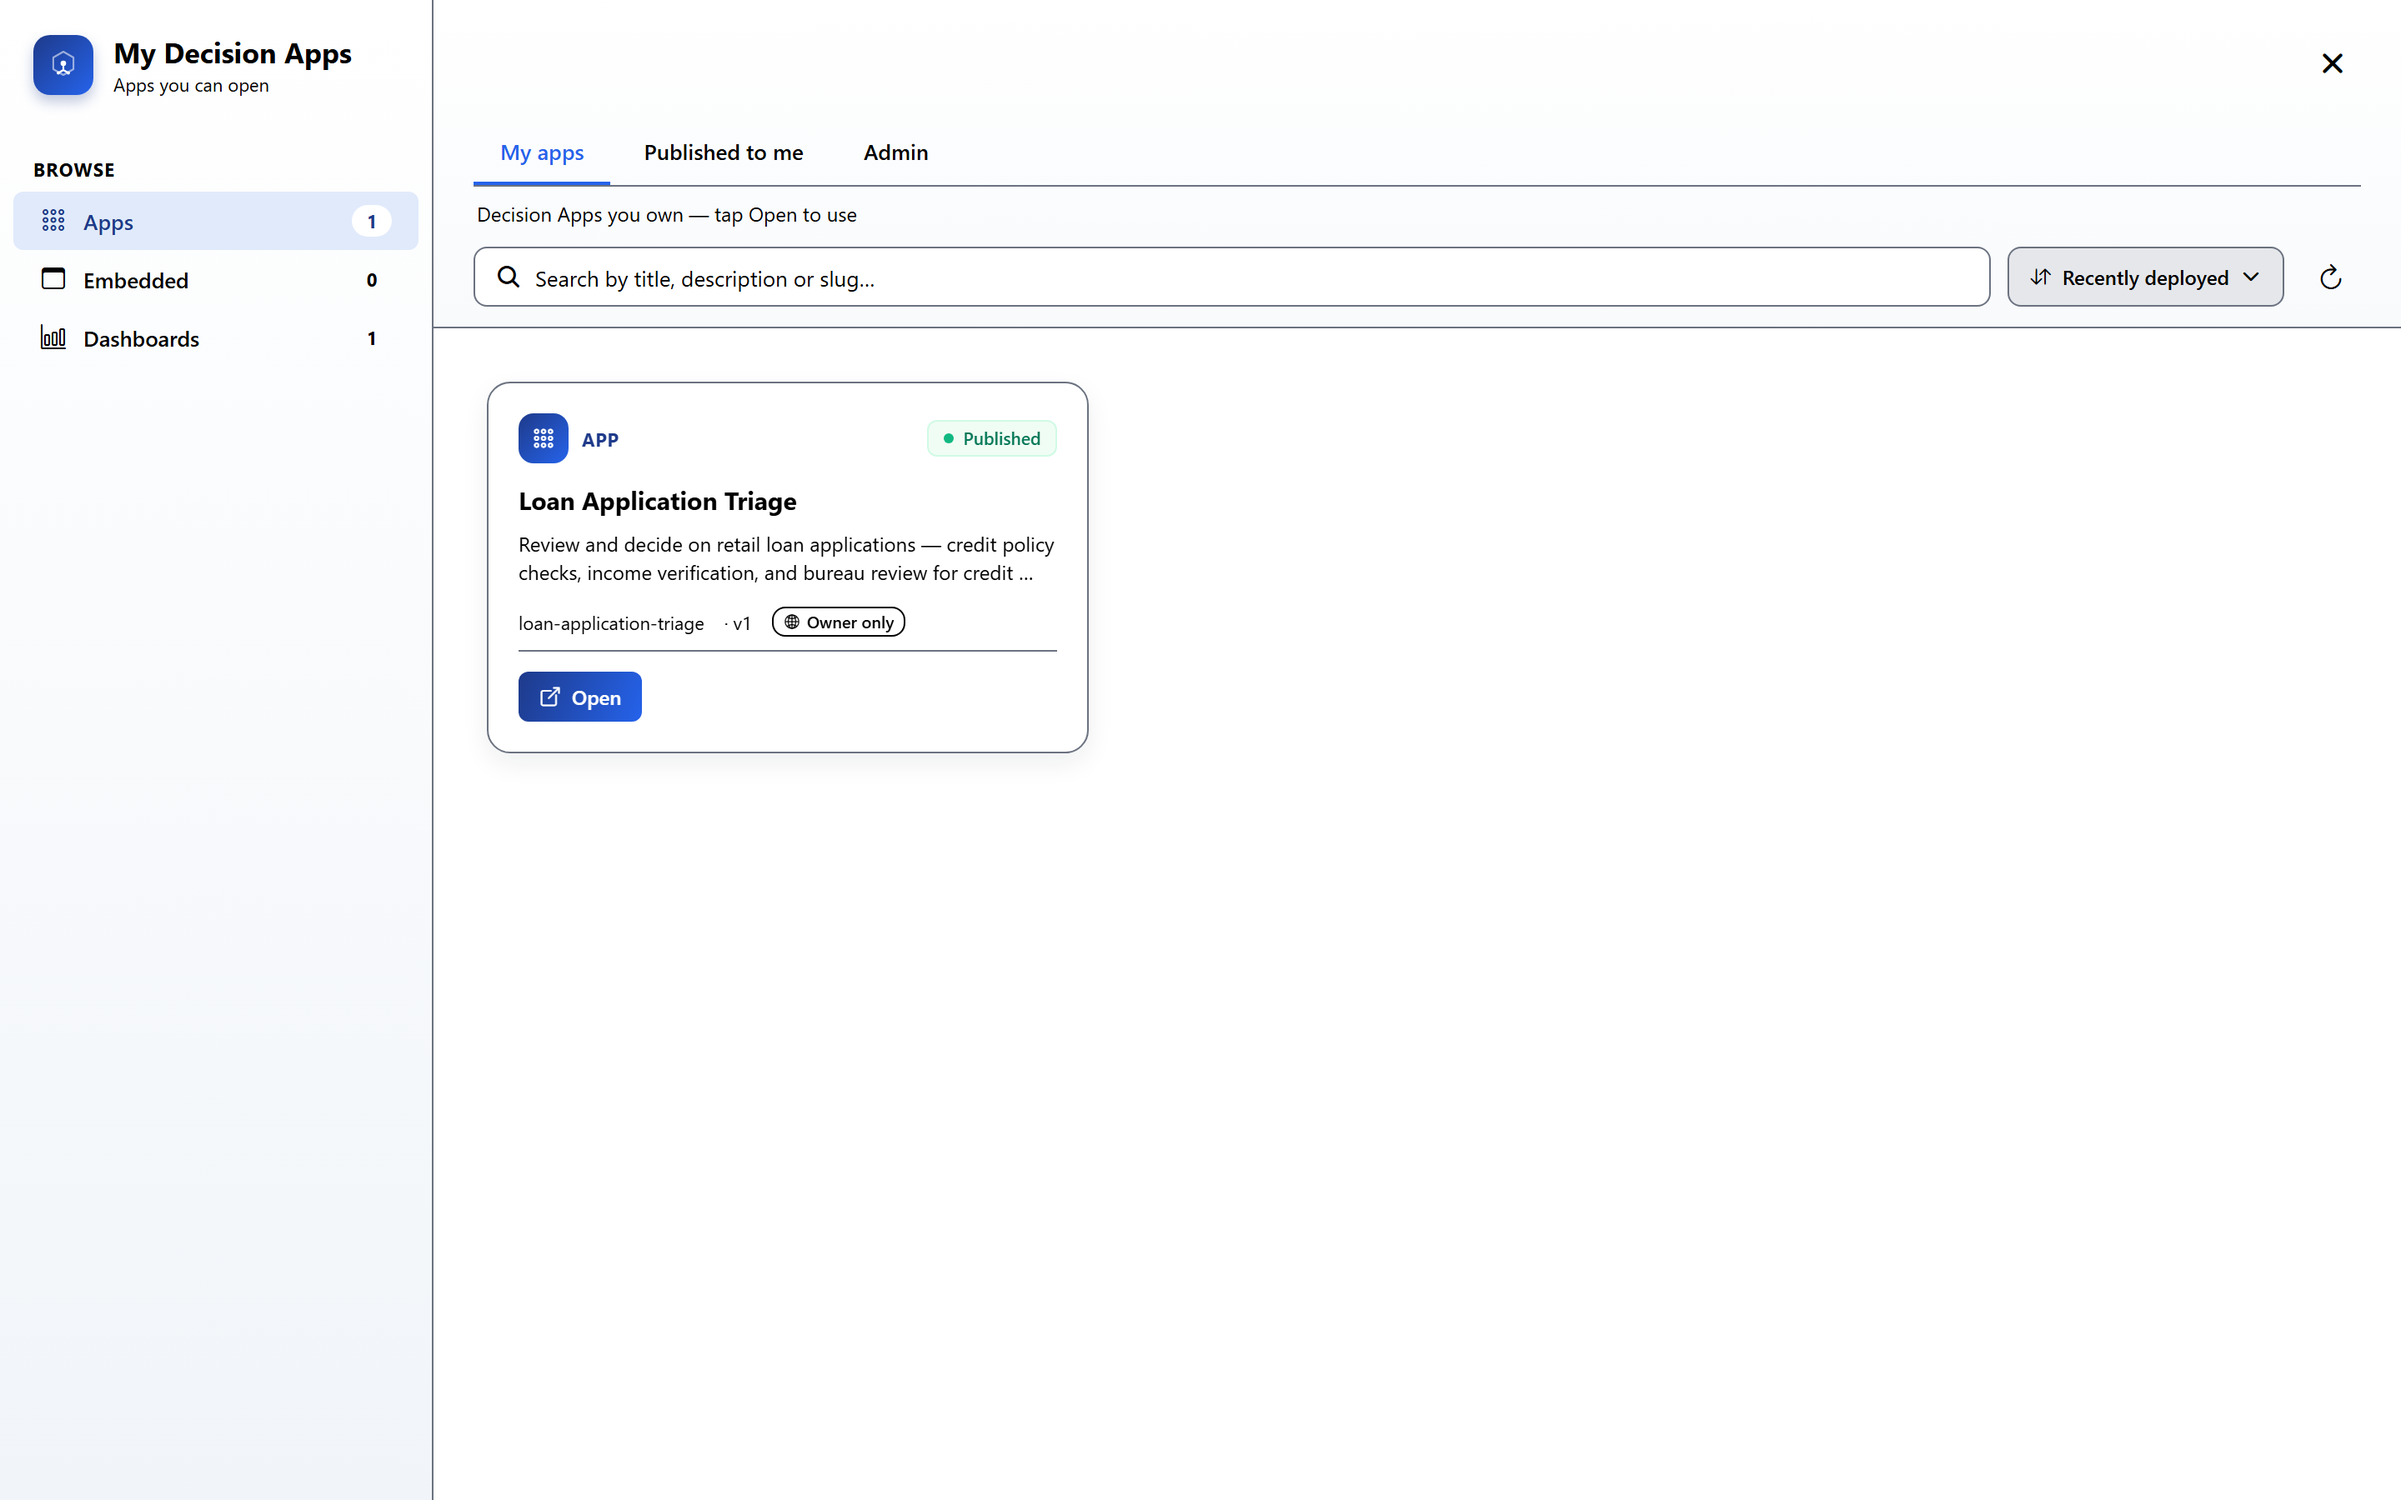
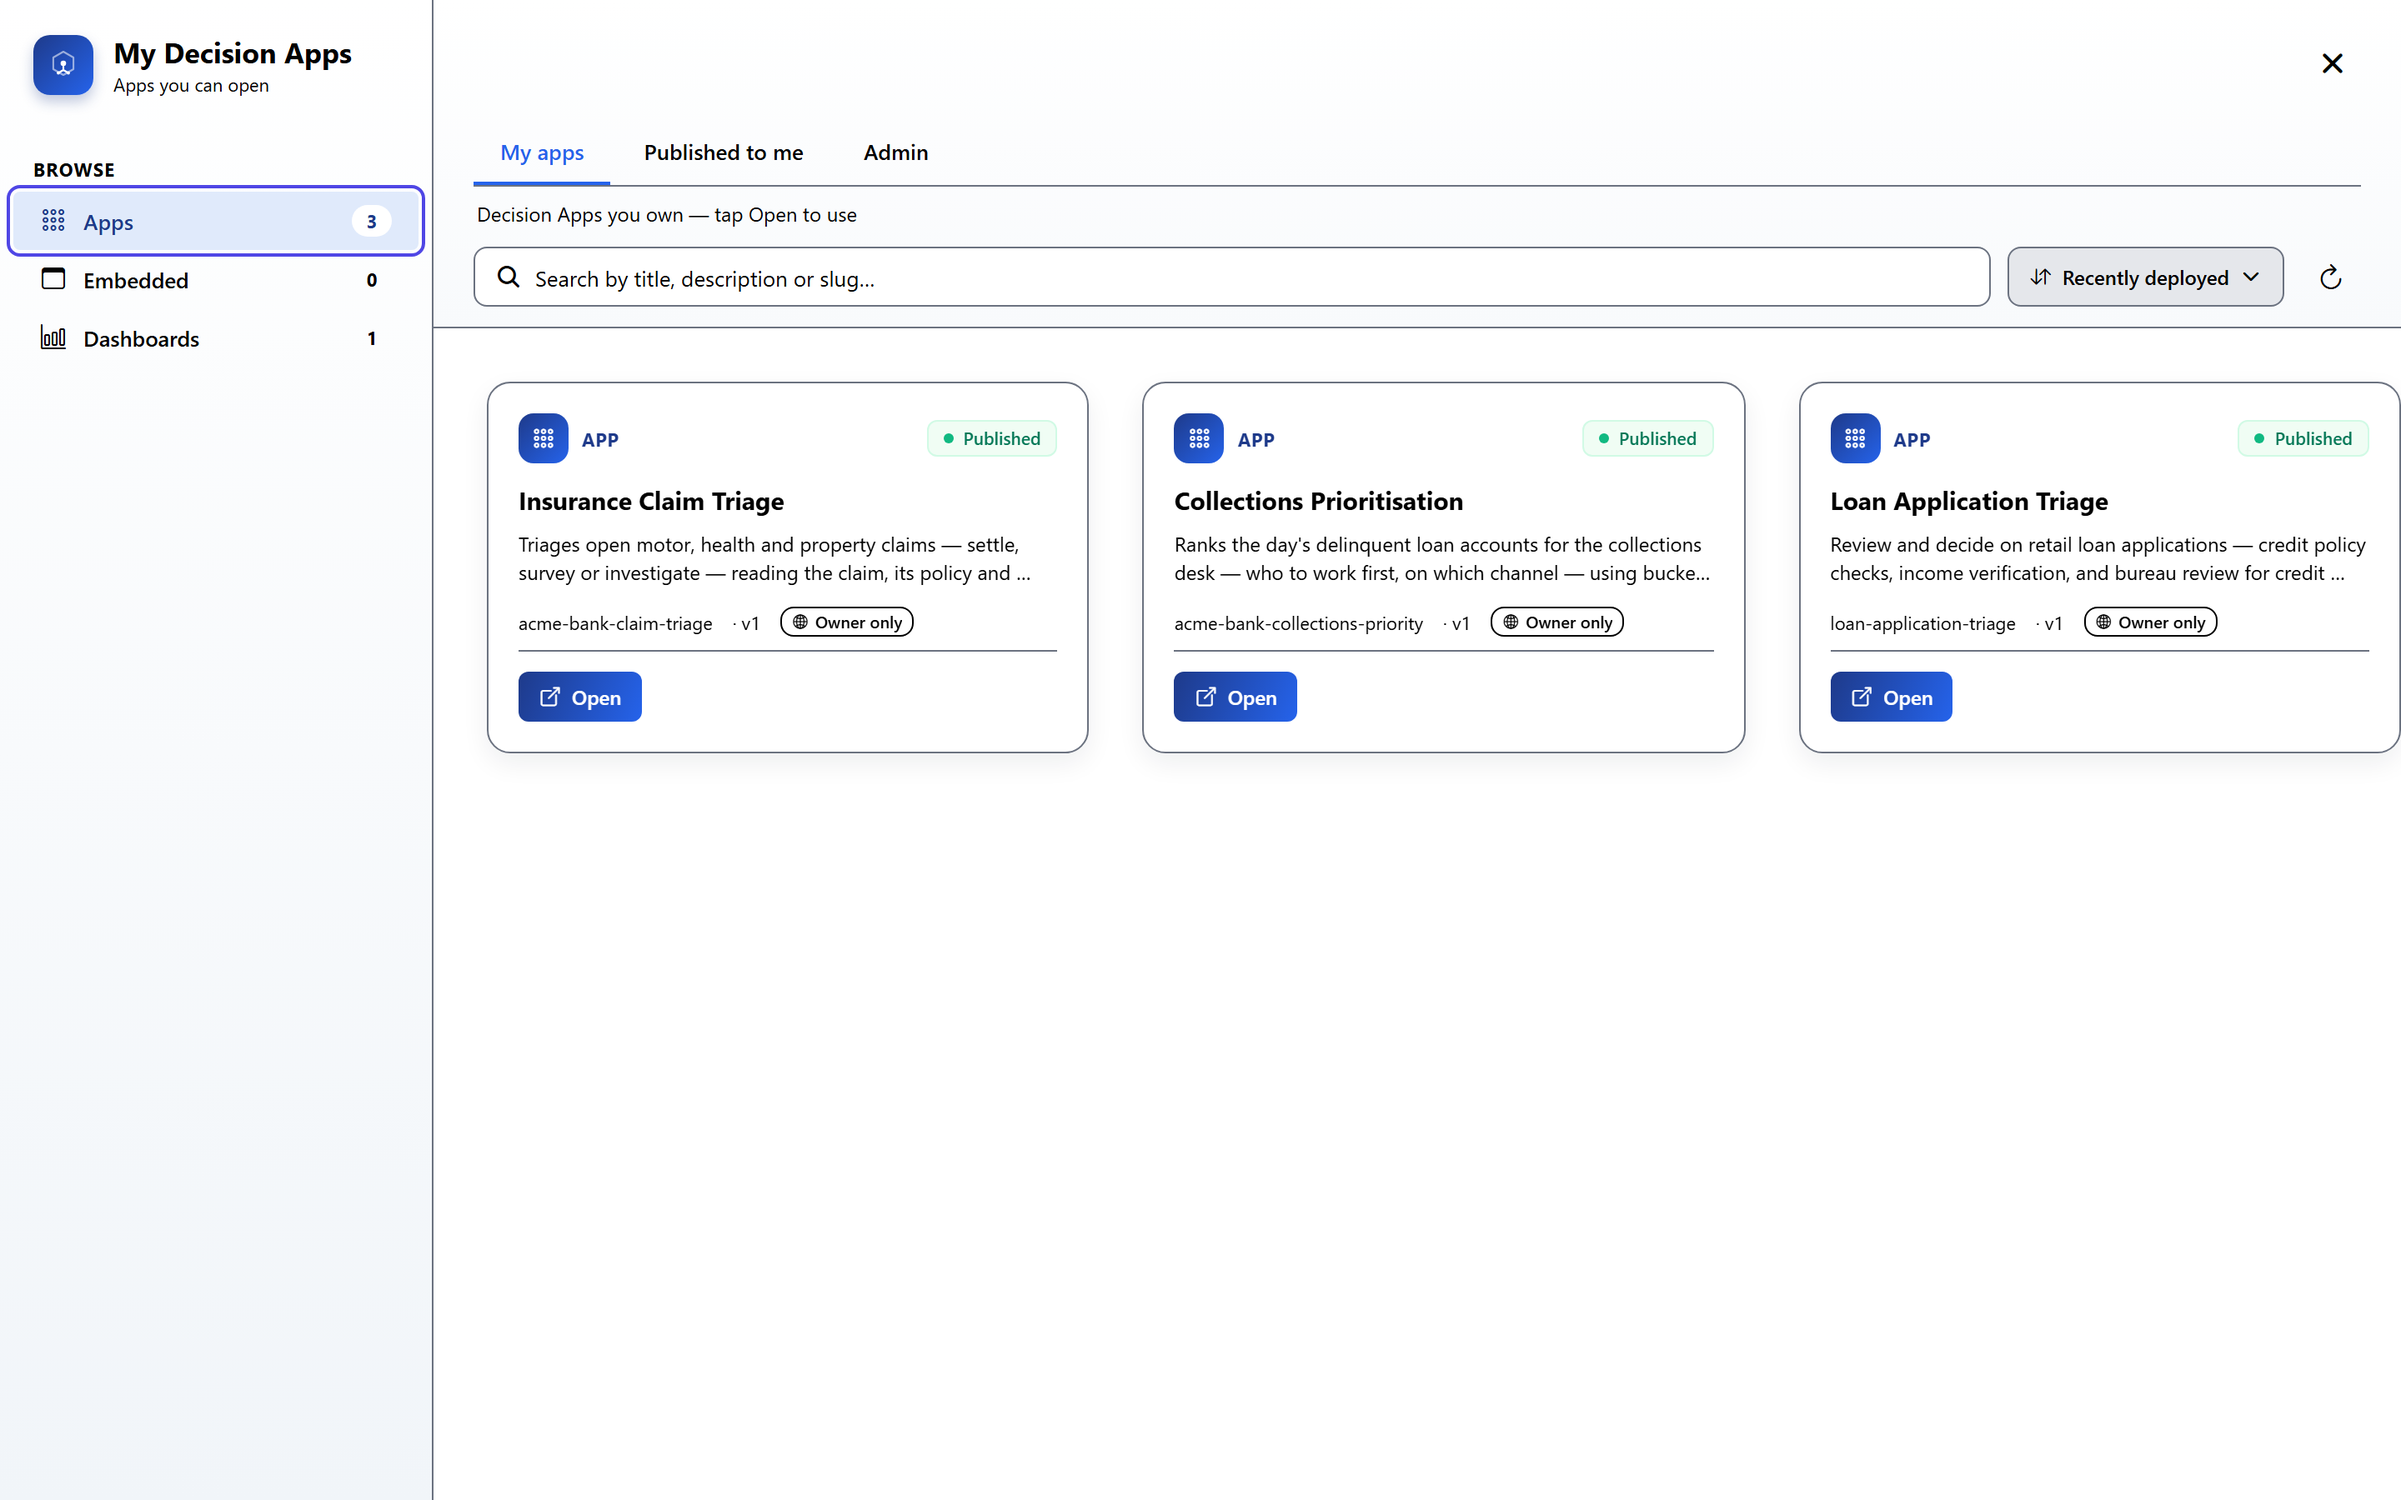
fix: give the app runtime a reachable smart-app-service URL; capture the demo
Opening ANY Decision App on a clean install rendered "Something went wrong".
.env carries SMART_APP_SERVICE_URL=http://localhost:9100 because the seed and
quickstart scripts run on the host and need it -- but every container reads
that same .env, and inside citra-app-runtime `localhost` is the container
itself. Server-side rendering of a Decision App page died with ECONNREFUSED
while every container reported healthy: the headline feature, broken, with
nothing in `docker compose ps` to suggest it.

Overridden per-service in compose rather than changed in .env, which would
have broken the host-side scripts instead. The runtime resolves exactly one
service URL server-side (src/lib/env.ts -> smartAppServiceUrl), so this single
override is the whole fix. env.ts deliberately throws rather than defaulting
to localhost, which is what made this findable rather than silent.

Verified by driving the real UI: sign in -> My Decision Apps -> Open ->
465 open claims from Postgres via MCP -> Triage -> a cited recommendation
(Health SOP §2/§4, Motor SOP §2.1) with the write STAGED for approval, not
executed.

Adds scripts/quickstart/capture_screens.py, which captures that flow at
1440x900 @2x, plus the shots themselves. Two things it has to work around,
both found the hard way and documented in the file: RNW pressables are
role-less divs that ignore page.click and need a dispatched pointer sequence
(indexing PRESSABLES, not text nodes -- "Sign In" is both a heading and a
[…]

diff --git a/scripts/quickstart/capture_screens.py b/scripts/quickstart/capture_screens.py
@@ -1,0 +1,197 @@
+"""Capture the acme-bank Decision App flow for the README.
+
+Runs on the HOST at 1440x900 @2x, so every URL is plain localhost -- the origin
+the CORS allowlist permits and the runtime config injects.
+
+Two things this has to work around, both found by driving the real UI:
+
+1. The shell is React Native Web. Pressables render as <div> with no role and
+   no <button>, so page.click('text=...') matches the text node, not the
+   handler, and nothing fires. Every tap goes through __tap(), which walks up
+   to the nearest element carrying RNW's cursor-pointer class (r-1loqt21) and
+   dispatches the full pointer sequence.
+
+2. RNW's TextInput ignores synthetic typing. Values are set through the native
+   value setter plus an input event, which is what React listens for.
+
+The app runtime itself (localhost:3100) is ordinary React with real buttons, so
+inside a Decision App normal clicks work.
+
+Each shot names the claim it exists to prove. A shot that cannot be taken says
+so and the run continues -- a missing screenshot beats a misleading one.
+"""
+import os
+import sys
+from pathlib import Path
+
+from playwright.sync_api import sync_playwright
+
+UI = os.getenv("UI", "http://localhost:8081")
+EMAIL = os.getenv("ADMIN_EMAIL", "admin@citra-ai.com")
+PW = os.getenv("ADMIN_PASSWORD", "")
+OUT = Path(os.getenv("OUT", r"C:\Github\citra-decision-system\assets\screens"))
+
+# Injected once per page: the two RNW workarounds described above.
+HELPERS = """
+window.__tapEl = (el) => {
+  const r = el.getBoundingClientRect();
+  const o = {bubbles:true, cancelable:true, clientX:r.x+r.width/2,
+             clientY:r.y+r.height/2, button:0, pointerId:1, isPrimary:true};
+  for (const t of ['pointerdown','mousedown','pointerup','mouseup','click'])
+    el.dispatchEvent(t.startsWith('pointer') ? new PointerEvent(t,o) : new MouseEvent(t,o));
+  return true;
+};
+// Count PRESSABLES, not text nodes. "Sign In" appears twice on the login
+// screen -- once as the card heading, once as the button label -- and the
+// heading has no pressable ancestor. Indexing the text nodes silently picked
+// the heading and tapped nothing.
+window.__pressables = (txt) => {
+  const out = [];
+  for (const e of document.querySelectorAll('*')) {
+    if ((e.textContent||'').trim() !== txt || e.children.length !== 0) continue;
+    let p = e;
+    while (p && !/r-1loqt21/.test((p.className||'').toString())) p = p.parentElement;
+    if (p && !out.includes(p)) out.push(p);
+  }
+  return out;
+};
+window.__tap = (txt, nth) => {
+  const p = window.__pressables(txt)[nth||0];
+  if (!p) return false;
+  window.__tapEl(p);
+  return true;
+};
+window.__fillLogin = (email, pw) => {
+  const ins = [...document.querySelectorAll('input')];
+  if (ins.length < 2) return false;
+  const set = Object.getOwnPropertyDescriptor(window.HTMLInputElement.prototype, 'value').set;
+  const e = ins.find(i => i.type === 'email') || ins[0];
+  const p = ins.find(i => i.type === 'password') || ins[1];
+  set.call(e, email); e.dispatchEvent(new Event('input', {bubbles:true}));
+  set.call(p, pw);    p.dispatchEvent(new Event('input', {bubbles:true}));
+  return true;
+};
+"""
+
+
+def tap(page, txt, nth=0, timeout=30000):
+    """Tap `txt` once it exists. A fixed sleep before a tap is a guess; these
+    screens hydrate at their own pace and the guess is what failed first."""
+    page.wait_for_function(
+        "([t, n]) => window.__pressables && window.__pressables(t).length > n",
+        arg=[txt, nth], timeout=timeout,
+    )
+    return page.evaluate("([t,n]) => window.__tap(t,n)", [txt, nth])
+
+
+def shot(page, name, note):
+    OUT.mkdir(parents=True, exist_ok=True)
+    page.screenshot(path=str(OUT / f"{name}.png"))
+    print(f"  captured {name:<26} {note}")
+
+
+def main() -> int:
+    if not PW:
+        print("  ADMIN_PASSWORD not set -- cannot sign in", file=sys.stderr)
+        return 1
+
+    OUT.mkdir(parents=True, exist_ok=True)
+    with sync_playwright() as pw:
+        br = pw.chromium.launch()
+        page = br.new_page(viewport={"width": 1440, "height": 900},
+                           device_scale_factor=2)
+        page.add_init_script(HELPERS)
+
+        # ── landing ───────────────────────────────────────────────────────────
+        page.goto(UI, wait_until="networkidle", timeout=60000)
+        page.wait_for_timeout(3000)
+        shot(page, "00-landing", "self-hosted landing, Apache footer")
+
+        # ── sign in ───────────────────────────────────────────────────────────
+        if not tap(page, 'Sign In'):
+            print("  [!!] no Sign In pressable", file=sys.stderr)
+            br.close()
+            return 1
+        page.wait_for_timeout(2500)
+        if not page.evaluate(f"window.__fillLogin({EMAIL!r}, {PW!r})"):
+            print("  [!!] sign-in fields never appeared", file=sys.stderr)
+            br.close()
+            return 1
+        if not tap(page, 'Sign In'):
+            print("  [!!] sign-in submit did not fire", file=sys.stderr)
+            br.close()
+            return 1
+        # Wait for the home screen itself, not a guess at how long auth takes.
+        page.wait_for_function(
+            "() => window.__pressables && window.__pressables('My Decision Apps').length > 0",
+            timeout=60000,
+        )
+        page.wait_for_timeout(2500)
+        shot(page, "01-home", "signed in -- the operations home screen")
+
+        # ── the four Decision Apps ────────────────────────────────────────────
+        if not tap(page, 'My Decision Apps'):
+            print("  [!!] no My Decision Apps tile", file=sys.stderr)
+            br.close()
+            return 1
+        page.wait_for_timeout(4000)
+        shot(page, "02-decision-apps", "the seeded apps, visible without impersonation")
+
+        # ── open Claim Triage ─────────────────────────────────────────────────
+        # "Open" launches the app runtime (localhost:3100) in a NEW TAB, so the
+        # shell page stays where it is -- capturing `page` after this tap gets
+        # the app list again, not the app. The session rides the launch, which
+        # is why navigating to the runtime URL directly answers "session
+        # expired" instead.
+        try:
+            with page.expect_popup(timeout=30000) as popup:
+                if not tap(page, 'Open', 0):
+                    raise RuntimeError("no Open button on the first app card")
+            app = popup.value
+        except Exception as exc:
+            print(f"  [!!] the app did not open ({exc})", file=sys.stderr)
+            br.close()
+            return 1
+
+        app.set_viewport_size({"width": 1440, "height": 900})
+        app.wait_for_load_state("networkidle", timeout=60000)
+        # Wait for real rows rather than a fixed sleep -- the queue is fetched
+        # from Postgres through the MCP and takes a moment on a cold start.
+        try:
+            app.wait_for_selector("text=Triage this claim", timeout=60000)
+        except Exception:
+            print("  [!!] claim queue never rendered", file=sys.stderr)
+        app.wait_for_timeout(1500)
+        shot(app, "03-claim-queue", "real claims from Postgres, via MCP")
+
+        # ── run the agent ─────────────────────────────────────────────────────
+        # The app runtime is ordinary React with real buttons, so a normal
+        # click works here -- none of the RNW workarounds apply.
+        try:
+            app.click("text=Triage this claim", timeout=15000)
+        except Exception as exc:
+            print(f"  [!!] could not start a triage run ({exc.__class__.__name__})",
+                  file=sys.stderr)
+            br.close()
+            return 1
+        print("  agent running -- waiting for the recommendation (up to 4 min)")
+
+        # Wait for the staged decision rather than a fixed sleep: the panel only
+        # appears once the run finishes and the write is dry-run validated.
+        got = True
+        try:
+            app.wait_for_selector("text=Proposed changes", timeout=240000)
+        except Exception:
+            got = False
+            print("  [!!] no recommendation within 4 minutes -- capturing anyway",
+                  file=sys.stderr)
+        app.wait_for_timeout(2500)
+        shot(app, "04-recommendation",
+             "cited recommendation + staged write" if got else "INCOMPLETE - check before use")
+
+        br.close()
+    return 0
+
+
+if __name__ == "__main__":
+    sys.exit(main())
